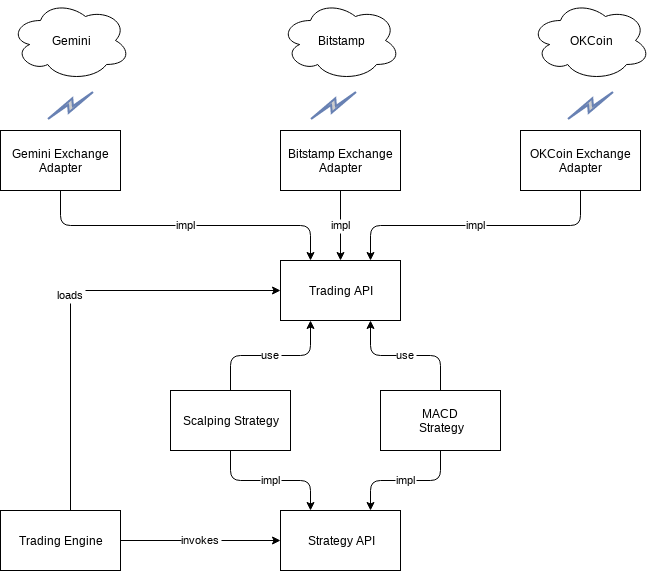
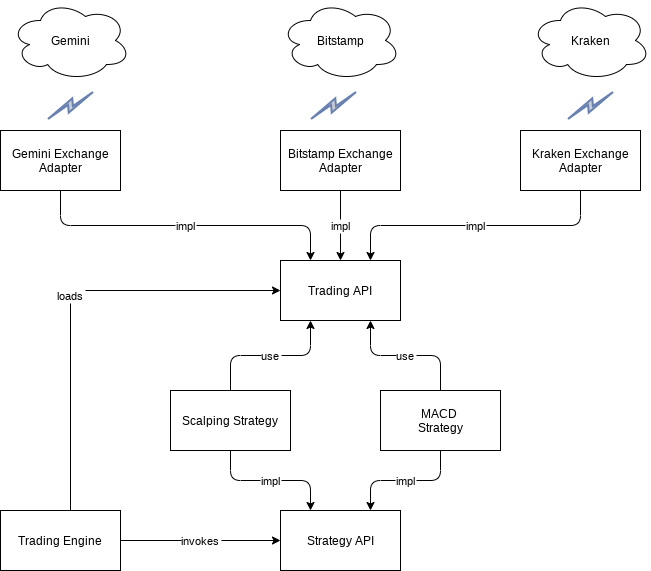
#122 : Deprecated OKCoin Exchange Adapter.
It needs updating to use new V3 API.

diff --git a/bxbot-exchanges/src/test/java/com/gazbert/bxbot/exchanges/TestOkcoinExchangeAdapter.java b/bxbot-exchanges/src/test/java/com/gazbert/bxbot/exchanges/TestOkcoinExchangeAdapter.java
@@ -68,17 +68,20 @@ import org.powermock.modules.junit4.PowerMockRunner;
  * Tests the behaviour of the OKCoin Exchange Adapter.
  *
  * @author gazbert
+ * @deprecated #120 : The OKCoin V1 API is now deprecated and no longer works - adapter needs
+ *     updating to use V3 API.
  */
 @RunWith(PowerMockRunner.class)
 @PowerMockIgnore({
-    "javax.crypto.*",
-    "javax.management.*",
-    "com.sun.org.apache.xerces.*",
-    "javax.xml.parsers.*",
-    "org.xml.sax.*",
-    "org.w3c.dom.*"
+  "javax.crypto.*",
+  "javax.management.*",
+  "com.sun.org.apache.xerces.*",
+  "javax.xml.parsers.*",
+  "org.xml.sax.*",
+  "org.w3c.dom.*"
 })
 @PrepareForTest(OkCoinExchangeAdapter.class)
+@Deprecated(forRemoval = true)
 public class TestOkcoinExchangeAdapter extends AbstractExchangeAdapterTest {
 
   private static final String DEPTH_JSON_RESPONSE = "./src/test/exchange-data/okcoin/depth.json";

diff --git a/bxbot-exchanges/src/main/java/com/gazbert/bxbot/exchanges/OkCoinExchangeAdapter.java b/bxbot-exchanges/src/main/java/com/gazbert/bxbot/exchanges/OkCoinExchangeAdapter.java
@@ -90,8 +90,10 @@ import org.apache.logging.log4j.Logger;
  * <em>all</em> other failures.
  *
  * @author gazbert
- * @since 1.0
+ * @deprecated #120 : The OKCoin V1 API is now deprecated and no longer works - adapter needs
+ *     updating to use V3 API.
  */
+@Deprecated(forRemoval = true)
 public final class OkCoinExchangeAdapter extends AbstractExchangeAdapter
     implements ExchangeAdapter {
 

diff --git a/README.md b/README.md
@@ -18,8 +18,7 @@ except for the trading strategies - you'll need to write those yourself! A simpl
 Trading API - take a look [here](https://github.com/ta4j/ta4j) for more ideas.
 
 Exchange Adapters for using [Bitstamp](https://www.bitstamp.net), [Bitfinex](https://www.bitfinex.com),
-[OKCoin](https://www.okcoin.com/), [itBit](https://www.itbit.com/),
-[Kraken](https://www.kraken.com), and [Gemini](https://gemini.com/) are included.
+[itBit](https://www.itbit.com/), [Kraken](https://www.kraken.com), and [Gemini](https://gemini.com/) are included.
 Feel free to improve these or contribute new adapters to the project; that would be 
 [shiny!](https://en.wikipedia.org/wiki/Firefly_(TV_series))
 
